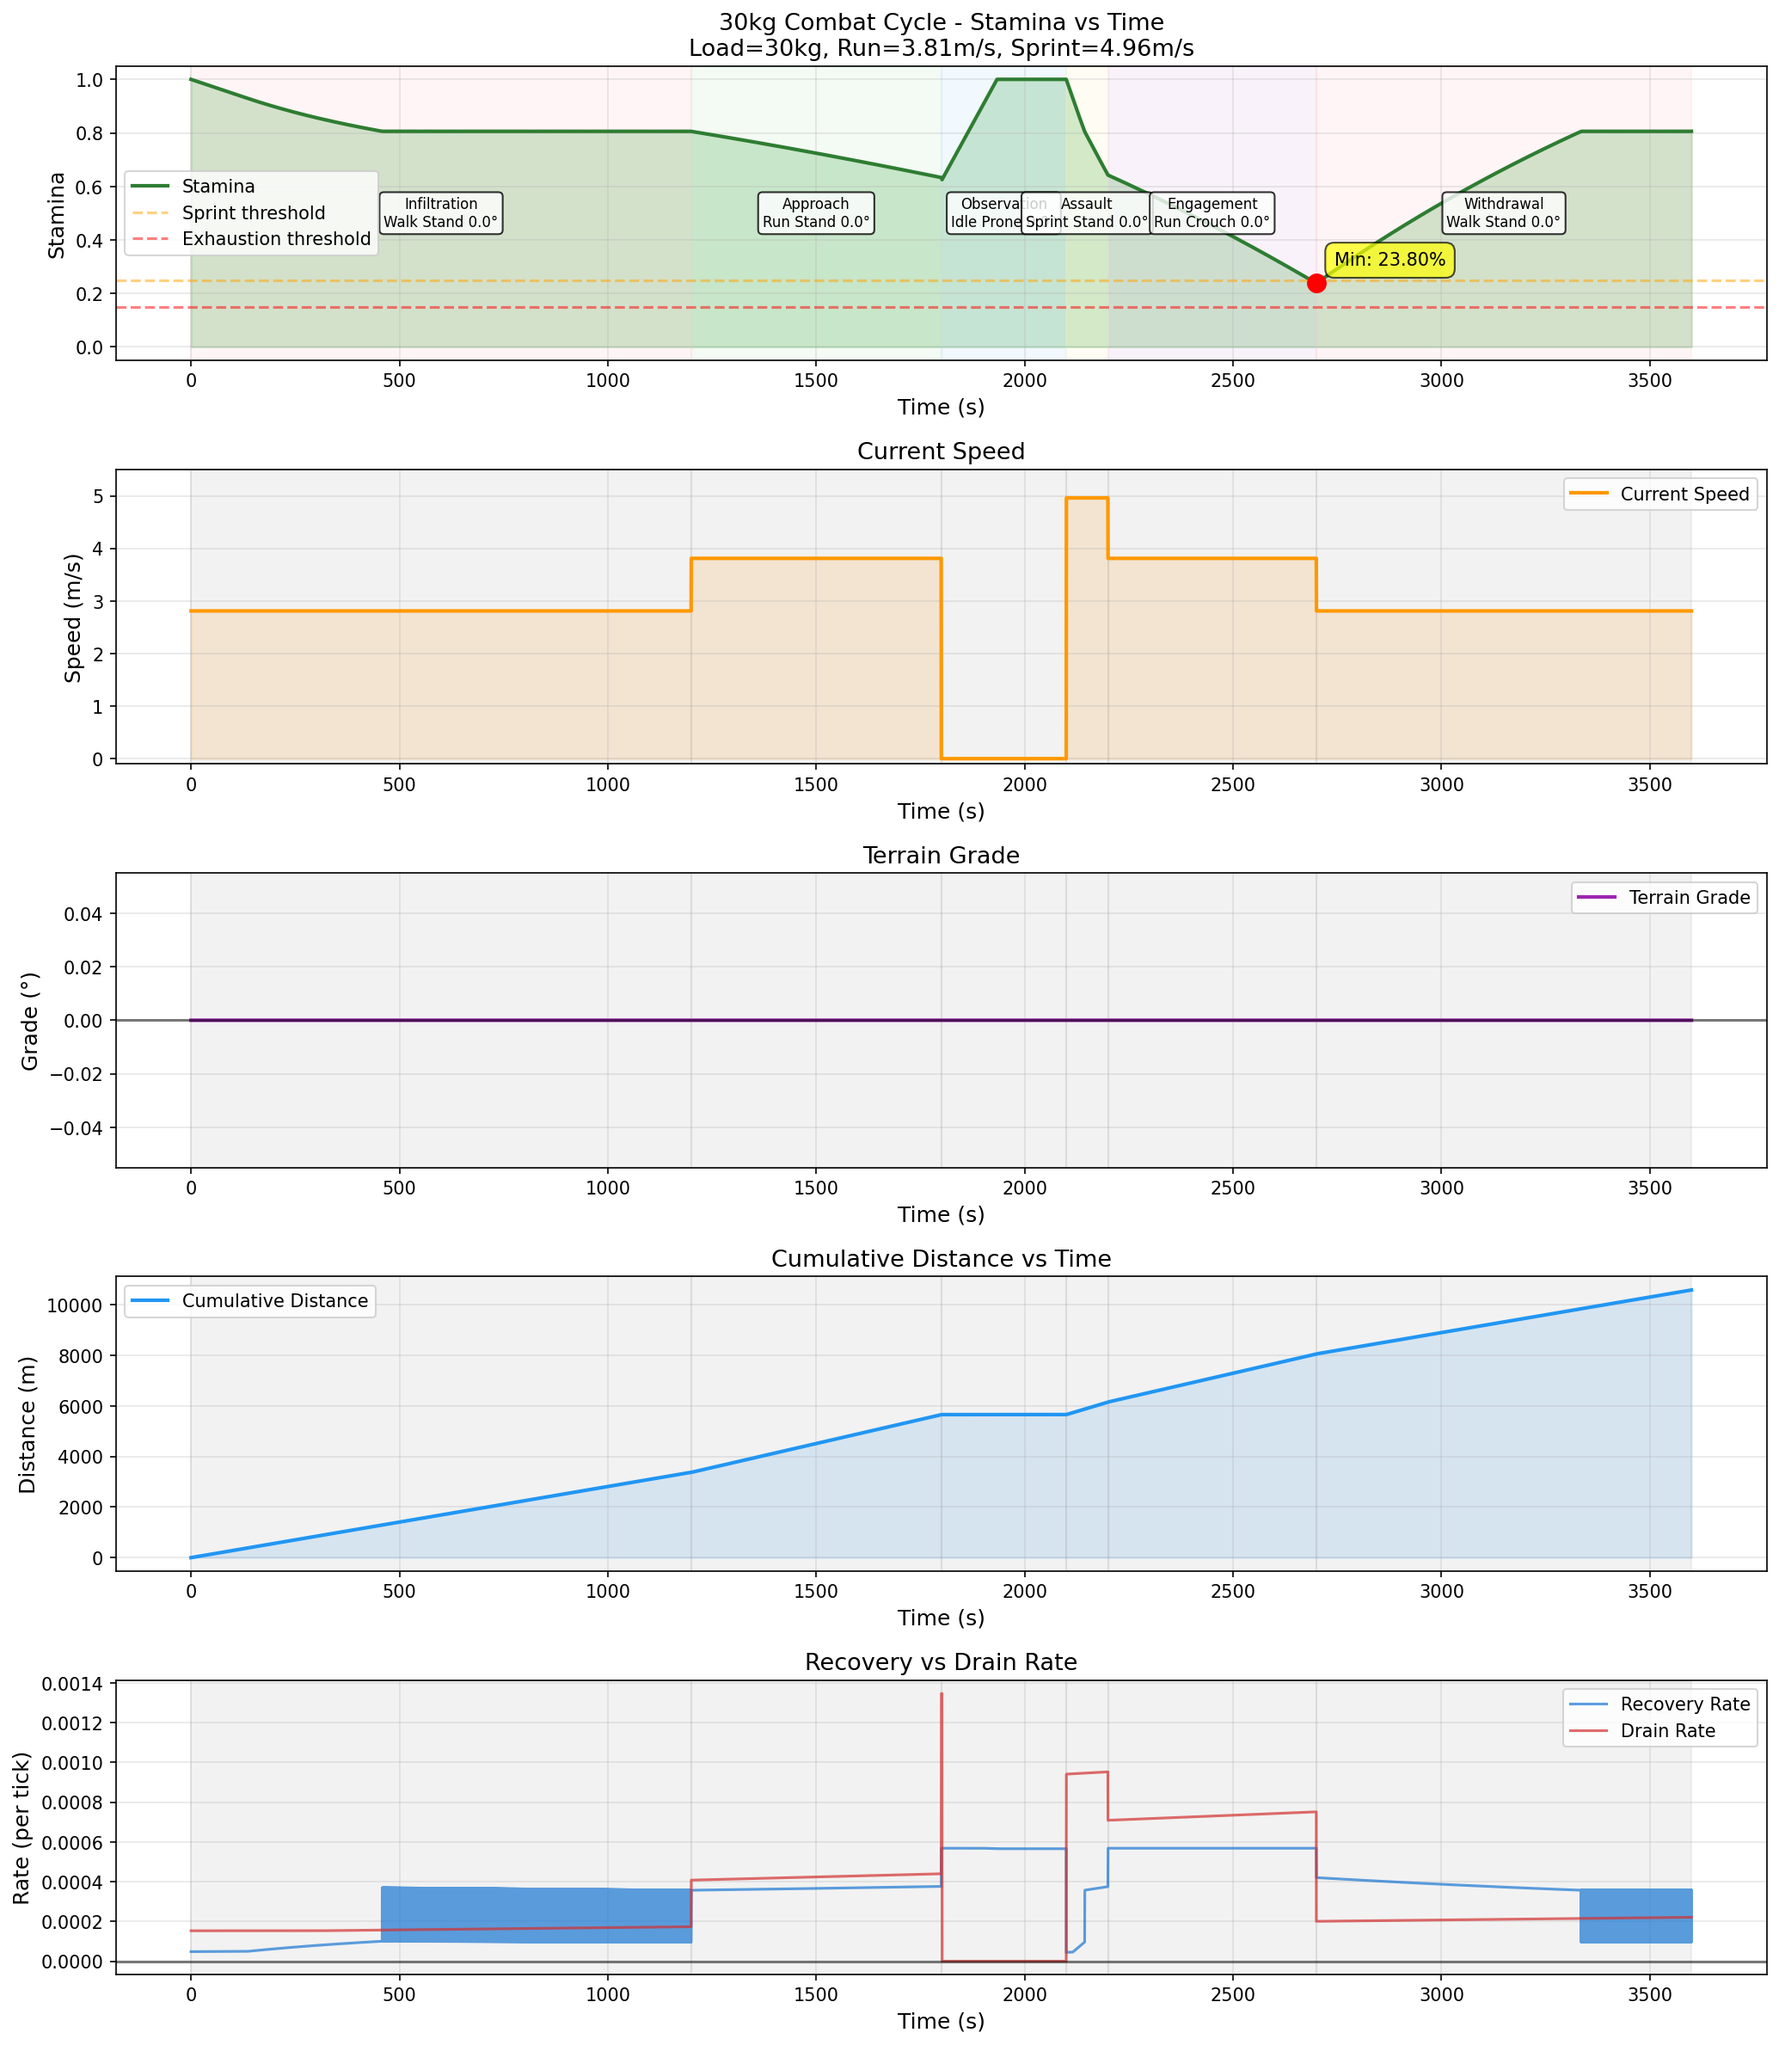
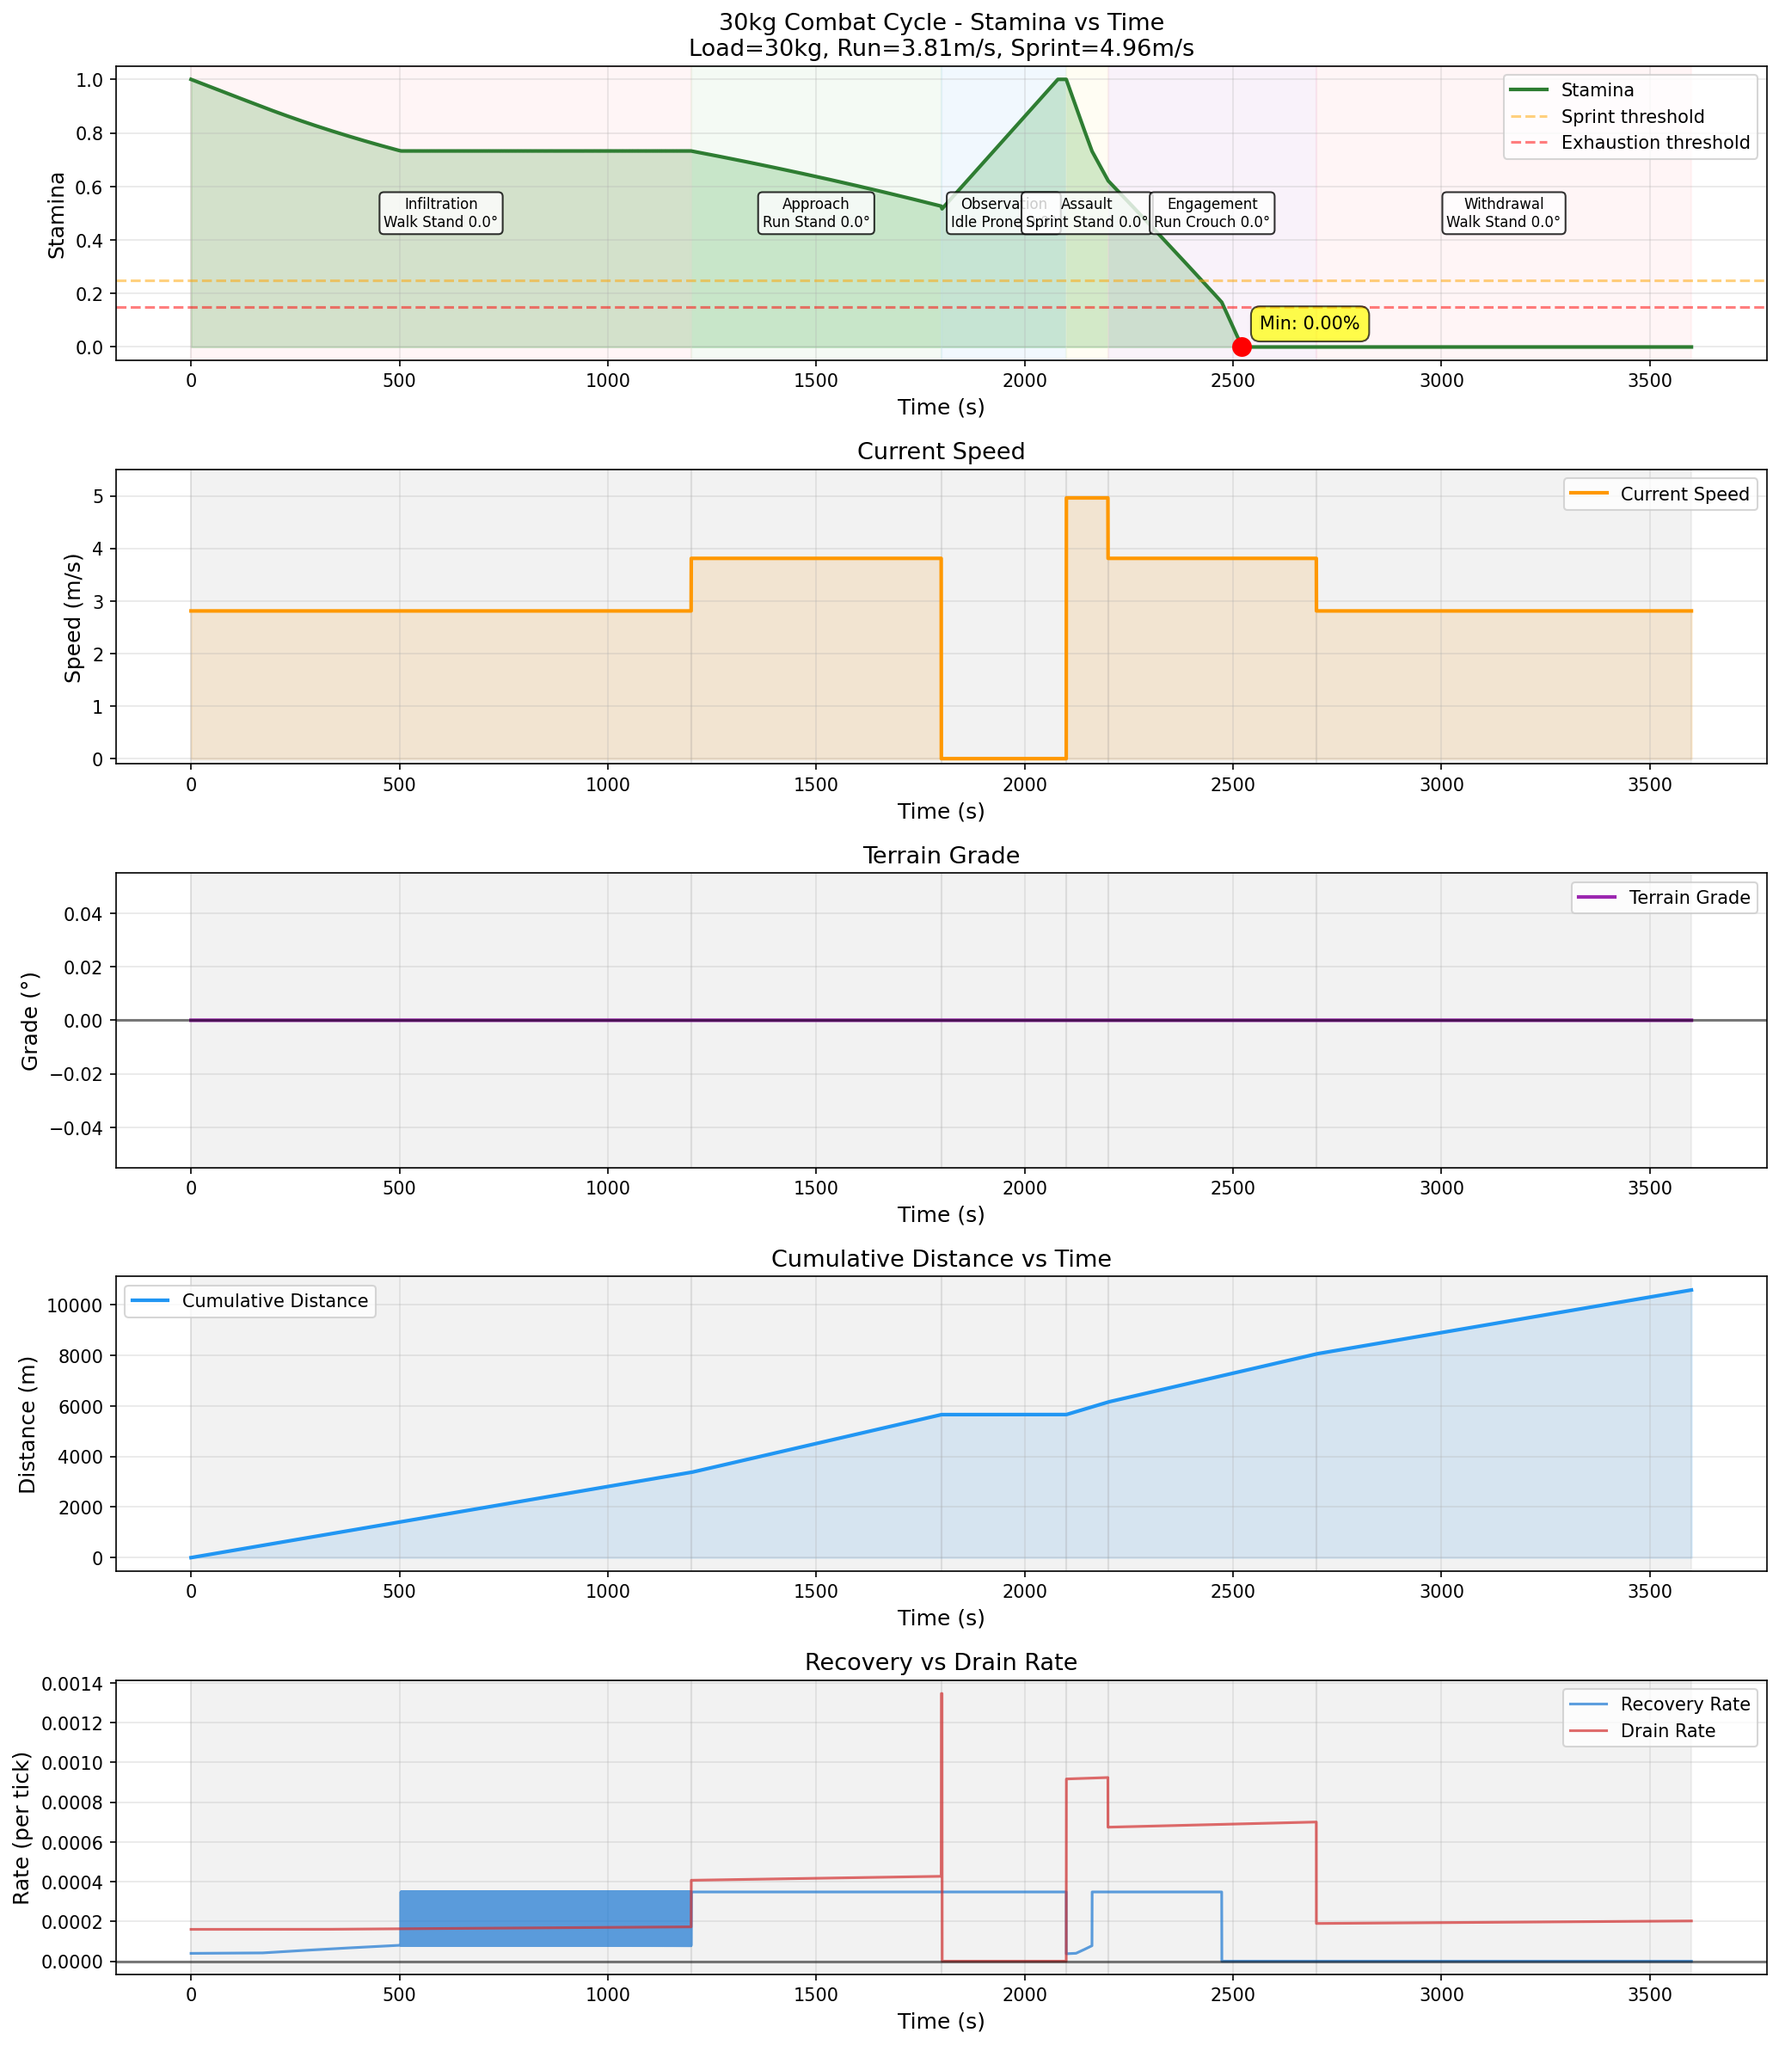
feat(rss): Update combat cycle tools with enhanced configuration handling and realism metrics
- Updated `plot_combat_cycle_30kg_en.py` to allow optional command line arguments for JSON configuration files, improving flexibility for comparisons.
- Enhanced `RSSSuperPipeline` with refined realism metrics, including adjustable parameters for physiological loss and metabolic dampening, ensuring better alignment with scientific standards.
- Updated comments and documentation for clarity on new features and configuration options.

diff --git a/tools/rss_super_pipeline.py b/tools/rss_super_pipeline.py
@@ -539,7 +539,7 @@ class RSSSuperPipeline:
     默认目标数量与含义（均 minimize）：
     - 目标 1：可玩性负担（30kg 多场景）
     - 目标 2：稳定性风险（BUG 检测 + 软约束惩罚）
-    - 目标 3：生理学损失（100 - 生理学合理性）
+    - 目标 3：生理学损失（100 - 生理学合理性，权重见 REALISM['objective_weight']）
     - 目标 4：会话体验损失（40/60 分钟样本 + 恢复窗）
     - 可选：Sprint-drop、Sprint-remaining（当 enable_sprint_objective 时）
 
@@ -608,6 +608,22 @@ class RSSSuperPipeline:
         'final_stamina_high': 0.70,
         'final_stamina_high_coeff': 50.0,
         'low_events_per_min_coeff': 10.0,
+    }
+    # 拟真目标：physiology_loss = (100 - realism_score) * objective_weight，再 *0.1 进入第三目标
+    # 旧版 objective_weight=50 且 energy_coeff 上限写死 5e-7（与搜索空间 5e-6 冲突），拟真项几乎失去区分度
+    REALISM = {
+        'objective_weight': 115.0,
+        'energy_coeff_search_low': 5e-7,
+        'energy_coeff_search_high': 5e-6,
+        'energy_coeff_reference_low': 5e-7,
+        'energy_coeff_reference_high': 1.3e-6,
+        'energy_coeff_outside_reference_penalty': 7.0,
+        'energy_coeff_outside_search_penalty': 14.0,
+        'base_recovery_physiological_min': 5e-5,
+        'base_recovery_physiological_max': 3e-4,
+        'load_metabolic_dampening_min': 0.48,
+        'load_metabolic_dampening_max': 0.88,
+        'load_metabolic_dampening_penalty': 5.0,
     }
 
     def __init__(
@@ -1155,7 +1171,8 @@ class RSSSuperPipeline:
         # ==================== 9. 应用多阶段优化权重 ====================
         # 获取当前权重
         stability_weight = getattr(self, '_stability_weight', 1.0)
-        realism_weight = 50.0  # 进一步降低到50，优先优化可玩性和稳定性
+        rcfg = getattr(self, 'REALISM', RSSSuperPipeline.REALISM)
+        realism_weight = float(rcfg.get('objective_weight', 115.0))
 
         # 应用权重到稳定性风险
         weighted_stability_risk = stability_risk * stability_weight
@@ -1230,7 +1247,7 @@ class RSSSuperPipeline:
     
     def _evaluate_physiological_realism(self, constants: RSSConstants) -> float:
         """
-        评估生理学合理性（基于科学文献）
+        评估生理学合理性（基于科学文献与当前 Optuna 搜索边界对齐）
         
         Args:
             constants: 常量对象
@@ -1238,59 +1255,46 @@ class RSSSuperPipeline:
         Returns:
             生理学合理性值（越大越好，0-100范围）
         """
-        # 基于科学文献的生理学合理性评估
-        # 参考：
-        # - Pandolf et al. (1977): 能量消耗模型
-        # - ACSM (2018): 生理学阈值
-        # （Givoni-Goldman 跑步模型已弃用，仍在文档中保留历史说明）
-        
+        # 参考：Pandolf et al. (1977)；ACSM；模组内嵌预设 energy 量级
+        rcfg = getattr(self, 'REALISM', RSSSuperPipeline.REALISM)
         realism_score = 100.0
-        
-        # 1. 恢复模型合理性
-        # 检查恢复率是否在生理学合理范围内
+
         base_recovery = constants.BASE_RECOVERY_RATE
-        if base_recovery < 2e-5 or base_recovery > 3e-4:
-            realism_score -= 10.0  # 基础恢复率偏离生理学范围（Optuna范围：2e-5~1.2e-4）
-        # 增加恢复率的精细评估
-        elif 5e-5 <= base_recovery <= 7e-5:
-            realism_score -= 5.0  # 惩罚过于接近默认值的参数
-        
-        # 2. 恢复倍数合理性
-        # 检查恢复倍数是否合理
-        # 恢复/姿态顺序由软约束（CONSTRAINT）统一表达，此处仅保留数值范围类检查
-        
-        # 3. 代谢阈值合理性
-        # 检查代谢阈值是否在合理范围内
+        br_lo = float(rcfg.get('base_recovery_physiological_min', 5e-5))
+        br_hi = float(rcfg.get('base_recovery_physiological_max', 3e-4))
+        if base_recovery < br_lo or base_recovery > br_hi:
+            realism_score -= 10.0
+
         aerobic_threshold = constants.AEROBIC_THRESHOLD
         anaerobic_threshold = constants.ANAEROBIC_THRESHOLD
         if aerobic_threshold >= anaerobic_threshold:
-            realism_score -= 20.0  # 有氧阈值应该低于无氧阈值
-        
-        # 4. 能量转换合理性
-        # 校准与 Pandolf(2.7/3.2) 一致：1.5e-7 时约 15 分钟耗尽为设计目标
+            realism_score -= 20.0
+
         energy_coeff = constants.ENERGY_TO_STAMINA_COEFF
-        if energy_coeff < 1e-9 or energy_coeff > 5e-7:
-            realism_score -= 10.0  # 能量转换系数偏离生理学范围
-        
-        # 5. 负重影响合理性
-        # 检查负重影响是否合理
+        es_lo = float(rcfg.get('energy_coeff_search_low', 5e-7))
+        es_hi = float(rcfg.get('energy_coeff_search_high', 5e-6))
+        ref_lo = float(rcfg.get('energy_coeff_reference_low', 5e-7))
+        ref_hi = float(rcfg.get('energy_coeff_reference_high', 1.3e-6))
+        if energy_coeff < es_lo or energy_coeff > es_hi:
+            realism_score -= float(rcfg.get('energy_coeff_outside_search_penalty', 14.0))
+        elif energy_coeff < ref_lo or energy_coeff > ref_hi:
+            realism_score -= float(rcfg.get('energy_coeff_outside_reference_penalty', 7.0))
+
         encumbrance_coeff = constants.ENCUMBRANCE_STAMINA_DRAIN_COEFF
         if encumbrance_coeff < 0.8 or encumbrance_coeff > 2.0:
-            realism_score -= 10.0  # 负重系数偏离生理学范围
-        
-        # 6. 运动消耗合理性
-        # 已统一为 Pandolf 公式，不再使用 Sprint 倍数（速度项自然体现 Sprint 更高消耗）
+            realism_score -= 10.0
 
-        # 7. 疲劳系统合理性
         fatigue_accumulation = constants.FATIGUE_ACCUMULATION_COEFF
         if fatigue_accumulation < 0.005 or fatigue_accumulation > 0.03:
-            realism_score -= 8.0  # 疲劳积累系数偏离合理范围
-        
-        # 姿态倍数顺序与 >1.0 由软约束（CONSTRAINT）统一表达，此处不再重复扣分
-        
-        # 确保分数在0-100范围内
+            realism_score -= 8.0
+
+        lmd = float(getattr(constants, 'LOAD_METABOLIC_DAMPENING', 0.7))
+        lmd_lo = float(rcfg.get('load_metabolic_dampening_min', 0.48))
+        lmd_hi = float(rcfg.get('load_metabolic_dampening_max', 0.88))
+        if lmd < lmd_lo or lmd > lmd_hi:
+            realism_score -= float(rcfg.get('load_metabolic_dampening_penalty', 5.0))
+
         realism_score = max(0.0, min(realism_score, 100.0))
-        
         return realism_score
     
     def _evaluate_movement_balance_penalty(self, constants: RSSConstants) -> Tuple[float, float]:
@@ -2503,11 +2507,21 @@ class RSSSuperPipeline:
                     "EliteStandard 仍按稳定性×能耗选解，导出后请用 plot_combat_cycle_30kg_en.py 自测"
                 )
 
-        # 1. Realism (EliteStandard): 稳定性好的 trial 中选 energy_coeff 最高的
+        # 1. EliteStandard：在稳定性较好的候选中，优先第三目标（生理学损失）最小，再按 energy 系数打破平局
         stability_ordered = sorted(realism_indices, key=lambda i: self.best_trials[i].values[1])
         top_n = max(3, len(realism_indices) // 3)
         top_stability = stability_ordered[:top_n]
-        realism_idx = max(top_stability, key=lambda i: energy_coeff(self.best_trials[i]))
+
+        def _phys_loss_for_index(idx: int) -> float:
+            t = self.best_trials[idx]
+            if t.values is not None and len(t.values) >= 3:
+                return float(t.values[2])
+            return 1e30
+
+        realism_idx = min(
+            top_stability,
+            key=lambda i: (_phys_loss_for_index(i), -energy_coeff(self.best_trials[i])),
+        )
         realism_trial = self.best_trials[realism_idx]
 
         # 2. Playability (TacticalAction): 可玩性好的 trial 中选 energy_coeff 最低的

diff --git a/tools/plot_combat_cycle_30kg_en.py b/tools/plot_combat_cycle_30kg_en.py
@@ -3,7 +3,9 @@
 """
 30KG Combat Cycle - Tactical Simulation
 Simulates realistic combat scenarios: Engagement -> Withdrawal -> Recovery -> Re-engagement
-Config: optimized_rss_config_realism_super.json
+
+默认读取 tools/optimized_rss_config_realism_super.json。
+可选第一个命令行参数指定 JSON（相对 tools 目录或绝对路径），用于对比三套优化输出。
 """
 
 import json
@@ -332,11 +334,18 @@ def plot_combat_cycle(time_list, stamina_list, recovery_rate_list, drain_rate_li
 
 
 def main():
-    json_path = SCRIPT_DIR / "optimized_rss_config_realism_super.json"
+    # 默认与脚本注释一致：拟真档。可传入参数对比三套预设，例如：
+    #   python plot_combat_cycle_30kg_en.py optimized_rss_config_playability_super.json
+    if len(sys.argv) > 1:
+        arg = Path(sys.argv[1])
+        json_path = arg if arg.is_absolute() else (SCRIPT_DIR / arg)
+    else:
+        json_path = SCRIPT_DIR / "optimized_rss_config_realism_super.json"
     if not json_path.exists():
         print(f"Config not found: {json_path}")
         return 1
     
+    print(f"Loading: {json_path}\n")
     constants = load_constants_from_json(json_path)
     twin = RSSDigitalTwin(constants)
     
